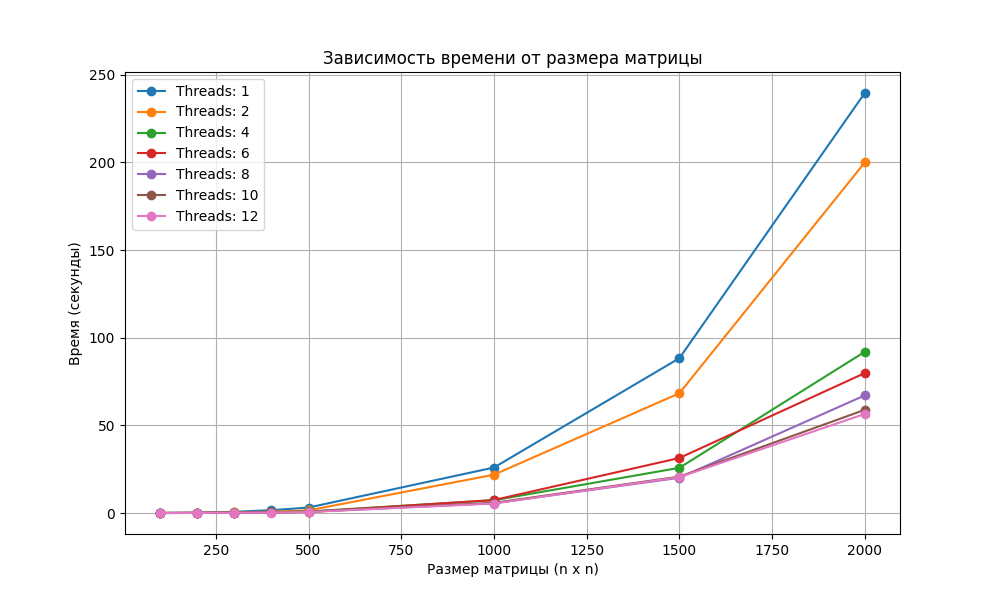
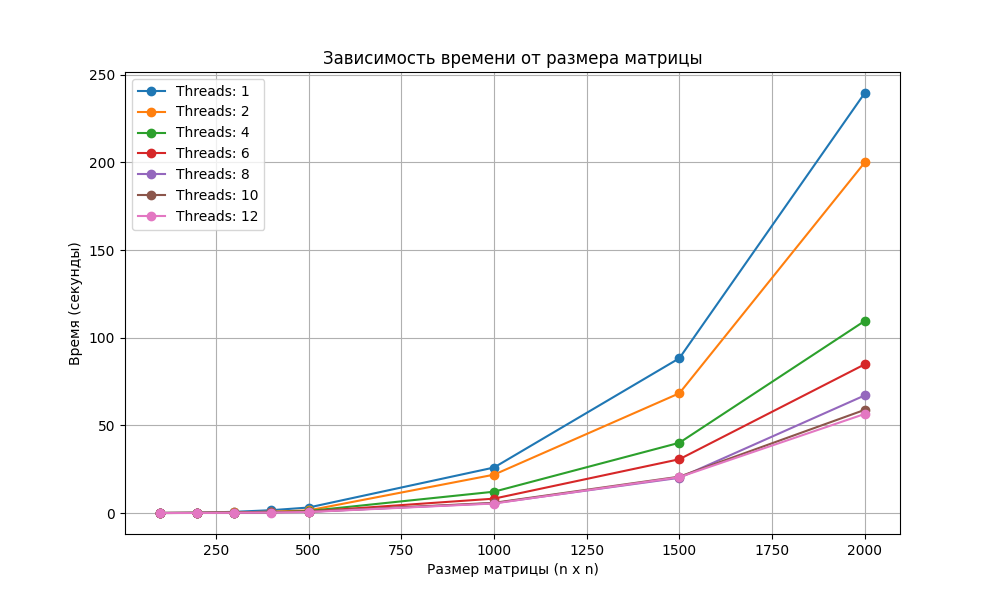
lab_2 new records

Changed region(s): [[0.341, 0.51, 0.868, 0.87]]

diff --git a/lab_2/lab_2/lab_2.cpp b/lab_2/lab_2/lab_2.cpp
@@ -93,7 +93,7 @@ std::chrono::duration<double> mul_matrix(const std::vector<std::vector<int>>& ma
 
 
 int main() {
-    int num_threads = 12;
+    int num_threads = 6;
 
     std::vector<size_t> matrix_sizes = { 100, 200, 300, 400, 500, 1000, 1500, 2000 };
 
